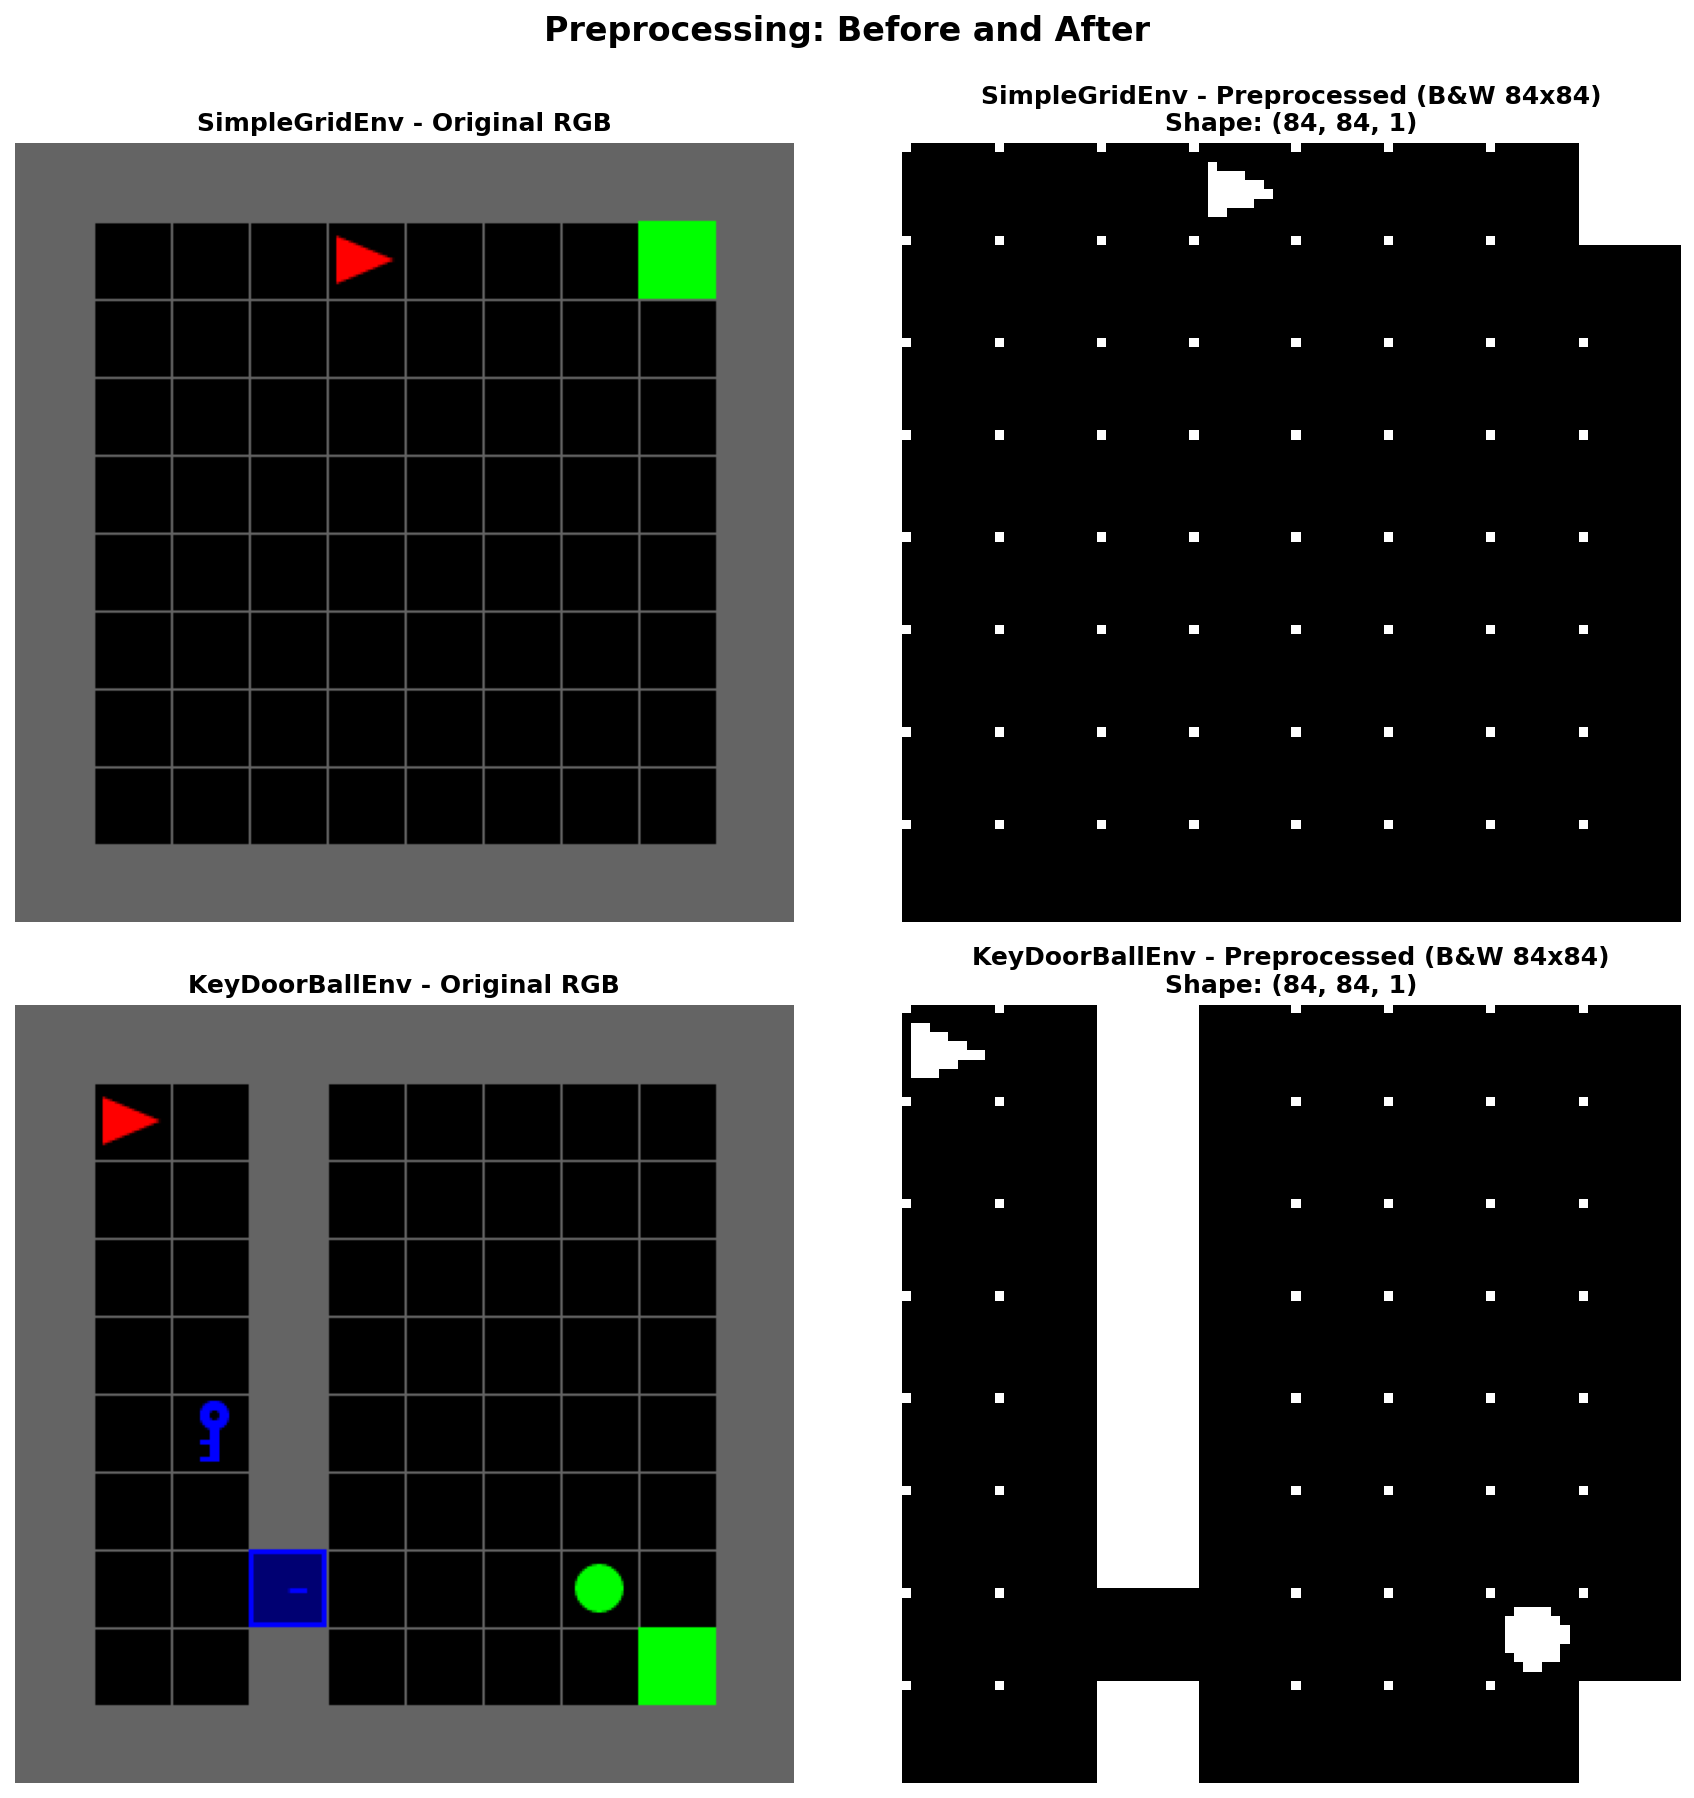
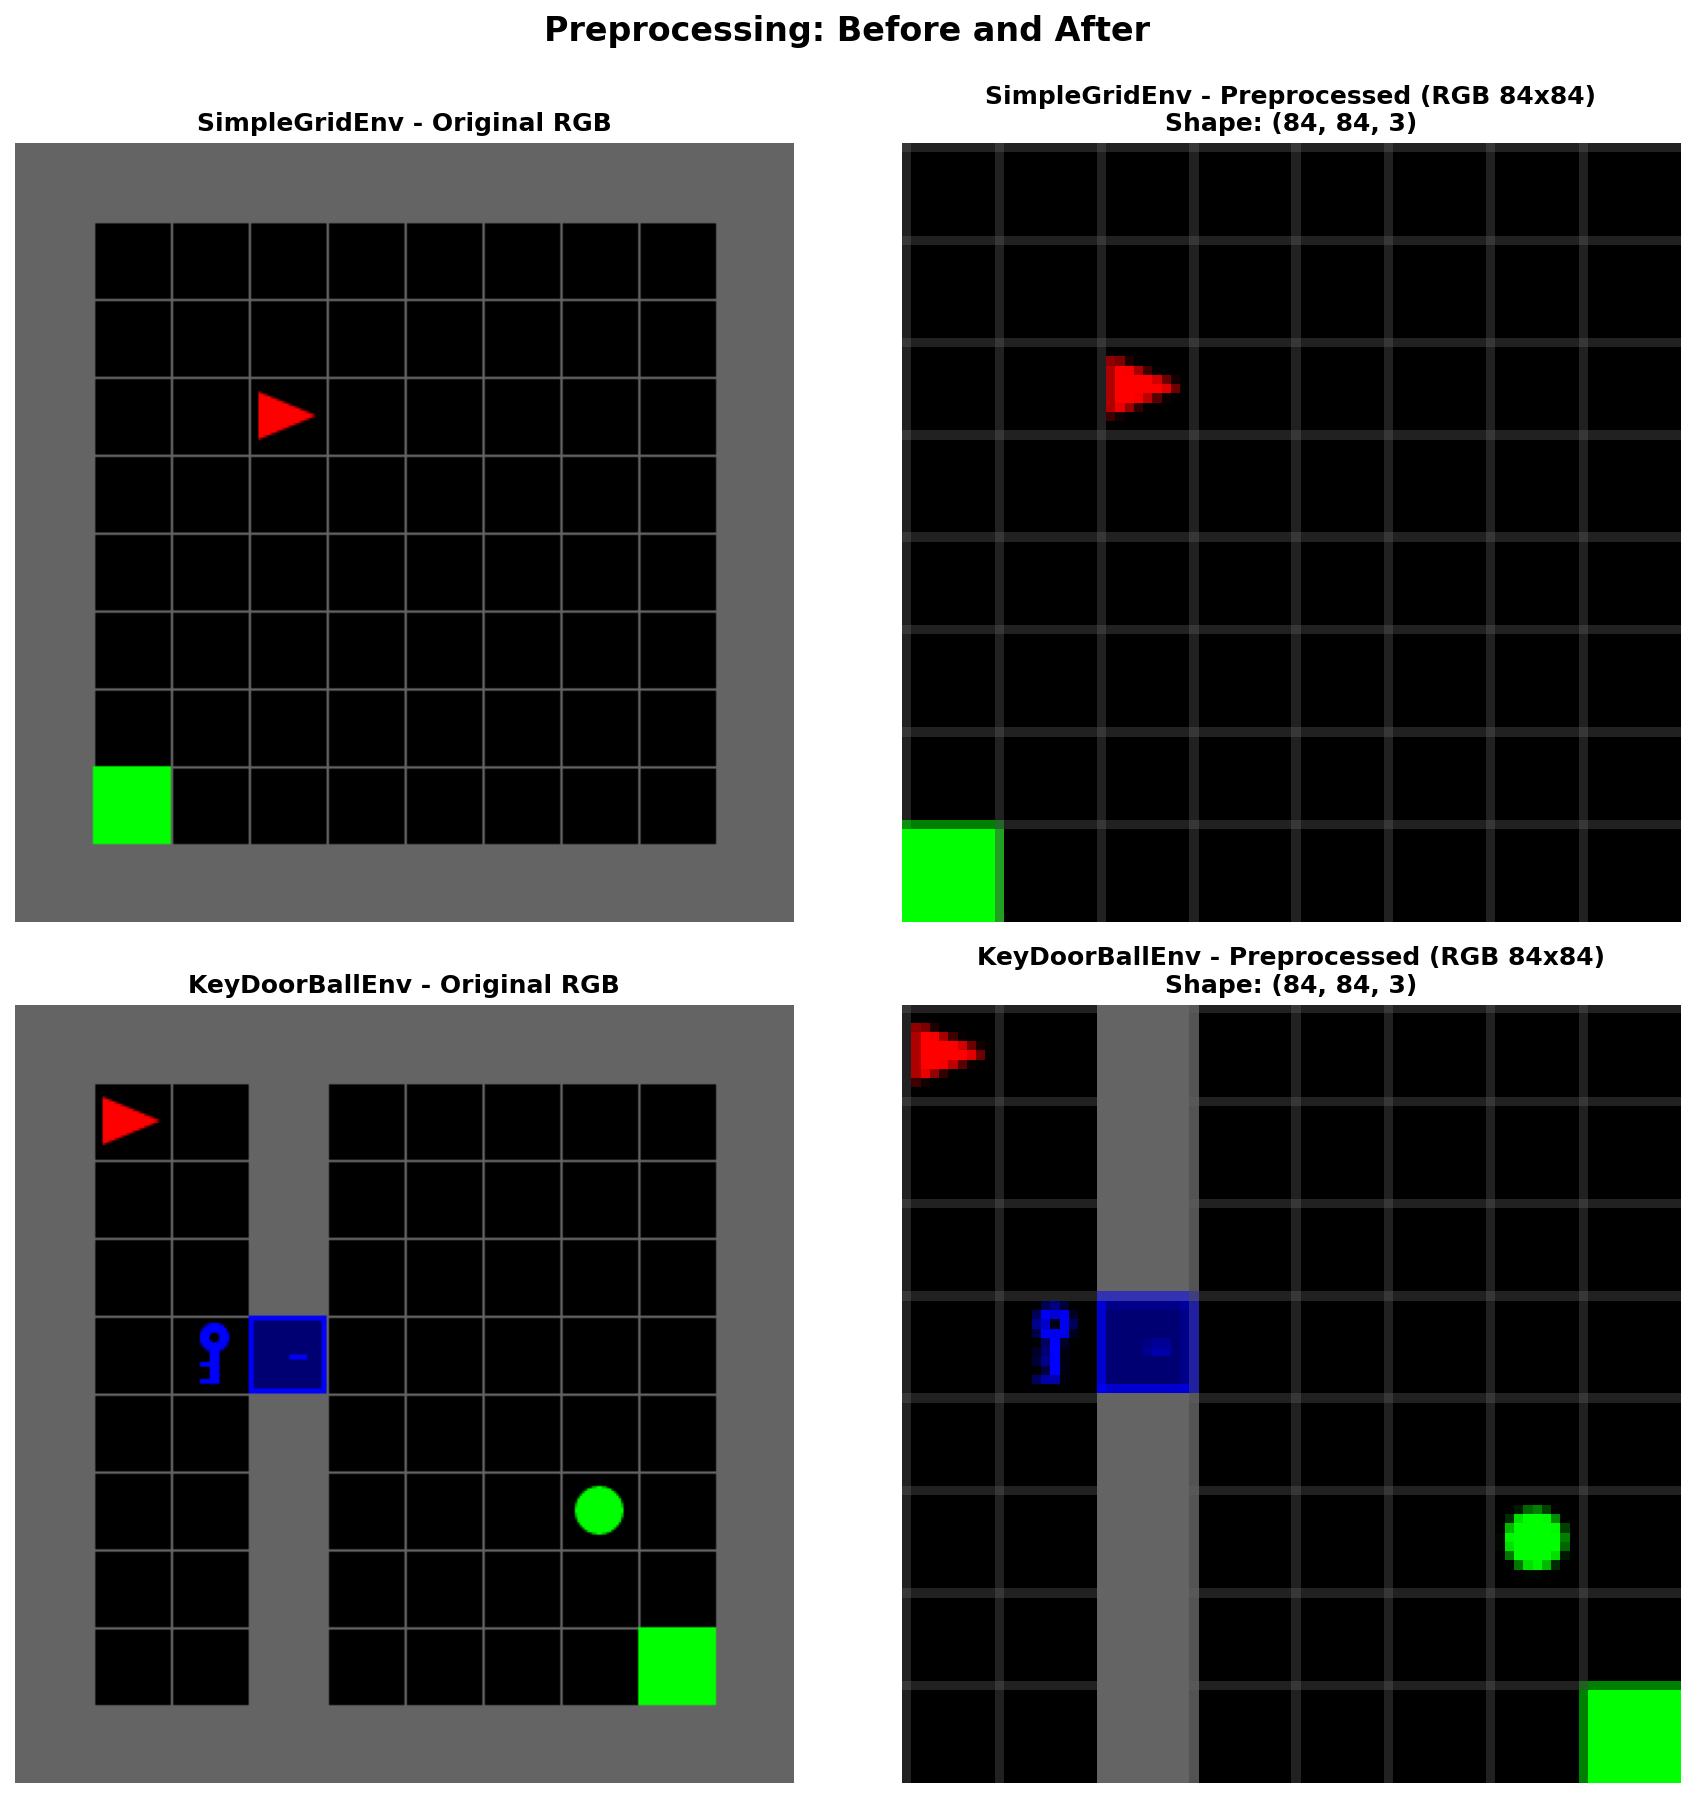
small cleanup

diff --git a/src/preprocessing/preprocessing.py b/src/preprocessing/preprocessing.py
@@ -326,7 +326,7 @@ def test_preprocessing_with_visualization():
     # Test default pre_process function
     print("   Testing pre_process (default function)...")
     processed = pre_process(simple_rgb)
-    assert processed.shape == (84, 84, 1), f"Expected shape (84, 84, 1), got {processed.shape}"
+    assert processed.shape == (84, 84, 3), f"Expected shape (84, 84, 3), got {processed.shape}"
     assert processed.dtype == np.uint8, f"Expected dtype uint8, got {processed.dtype}"
     print("   ✓ Default pre_process function works correctly")
     
@@ -357,7 +357,7 @@ def test_preprocessing_with_visualization():
     # Test observation space helper
     print("   Testing get_preprocessed_observation_space...")
     obs_shape = get_preprocessed_observation_space(pre_process)
-    assert obs_shape == (84, 84, 1), f"Expected shape (84, 84, 1), got {obs_shape}"
+    assert obs_shape == (84, 84, 3), f"Expected shape (84, 84, 3), got {obs_shape}"
     print("   ✓ Observation space helper works correctly")
     
     print("\n" + "="*60)
@@ -380,8 +380,8 @@ def test_preprocessing_with_visualization():
     
     # SimpleGridEnv - Preprocessed
     simple_processed = pre_process(simple_rgb)
-    axes[0, 1].imshow(simple_processed.squeeze(), cmap="gray")
-    axes[0, 1].set_title(f"SimpleGridEnv - Preprocessed (Grayscale 84x84)\nShape: {simple_processed.shape}", fontsize=12, fontweight='bold')
+    axes[0, 1].imshow(simple_processed)
+    axes[0, 1].set_title(f"SimpleGridEnv - Preprocessed (RGB 84x84)\nShape: {simple_processed.shape}", fontsize=12, fontweight='bold')
     axes[0, 1].axis("off")
     
     # KeyDoorBallEnv - Original
@@ -391,8 +391,8 @@ def test_preprocessing_with_visualization():
     
     # KeyDoorBallEnv - Preprocessed
     keydoor_processed = pre_process(keydoor_rgb)
-    axes[1, 1].imshow(keydoor_processed.squeeze(), cmap="gray")
-    axes[1, 1].set_title(f"KeyDoorBallEnv - Preprocessed (Grayscale 84x84)\nShape: {keydoor_processed.shape}", fontsize=12, fontweight='bold')
+    axes[1, 1].imshow(keydoor_processed)
+    axes[1, 1].set_title(f"KeyDoorBallEnv - Preprocessed (RGB 84x84)\nShape: {keydoor_processed.shape}", fontsize=12, fontweight='bold')
     axes[1, 1].axis("off")
     
     plt.suptitle("Preprocessing: Before and After", fontsize=16, fontweight='bold', y=0.995)

diff --git a/src/experiments/run_simplegrid.py b/src/experiments/run_simplegrid.py
@@ -43,10 +43,10 @@ SEED = 42
 OUTPUTS_DIR = os.path.join(_PROJECT_ROOT, "outputs")
 
 A2C_CONFIG = {
-    "num_episodes": 15000,
-    "max_steps": 50,          # random agent finds goal ~17 % of the time
+    "num_episodes": 30000,
+    "max_steps": 100,          # random agent finds goal ~17 % of the time
     "lr": 0.0003,              # lower LR for stability (A2C is noisy)
-    "gamma": 0.99,
+    "gamma": 0.95,
     "entropy_coef": 0.02,      # lighter entropy to let policy commit
     "value_coef": 0.5,         # critic loss weight
     "n_steps": 20,             # longer horizon covers more of the episode
